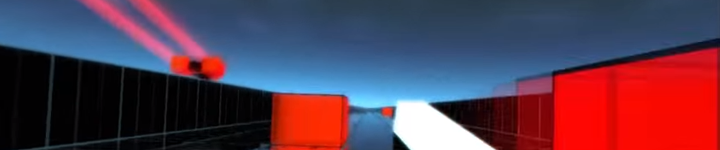
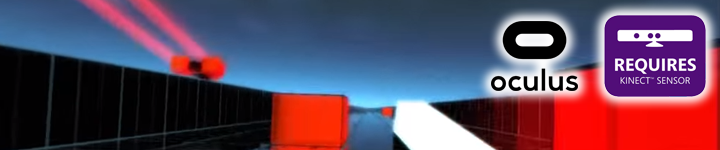
Inclusion of prototypes in games section. Add more info on A-10 page. Revamped game header images.

Changed region(s): [[0.6417, 0.0267, 1.0, 0.72]]

diff --git a/public/css/poole.css b/public/css/poole.css
@@ -285,6 +285,10 @@ tbody tr:nth-child(odd) th {
   background-color: #f9f9f9;
 }
 
+.portfolio-entry a {
+  font-weight: bold;
+}
+
 .portfolio-entry img {
   margin: 0.5rem 0 0 0;
 }

diff --git a/games/index.md b/games/index.md
@@ -3,9 +3,9 @@ layout: page
 title: Games
 ---
 
-## Futuretown.io Projects
+## Futuretown Projects
 
-> These are games that worked on for <a href="http://futuretown.io" target="_blank">Futuretown.io</a>, a game studio specialized in VR games.
+> These are games that worked on for <a href="http://futuretown.io" target="_blank">Futuretown</a>, a game studio specialized in VR games.
 
 <p class="portfolio-entry">
 <a href="{{ site.baseurl }}games/a-10">
@@ -29,6 +29,45 @@ Ascent (C# and Unity)
 <a href="{{ site.baseurl }}games/son-of-flynn">
 Son of Flynn (C# and Unity, Oculus DK2 and Kinect V2)
 <img src="{{ site.baseurl }}public/images/games/son-of-flynn/header.png">
+</a>
+</p>
+
+## Prototypes
+
+> These are small proof of concepts, made to try a specific mechanic or just for fun.
+
+<p class="portfolio-entry">
+<a href="{{ site.baseurl }}games/vr-pong">
+VR PONG (C# and Unity, HTC Vive integration)
+<img src="{{ site.baseurl }}public/images/games/vr-pong/header.png">
+</a>
+</p>
+
+<p class="portfolio-entry">
+<a href="{{ site.baseurl }}games/vr-rc">
+VR RC (C# and Unity, HTC Vive integration)
+<img src="{{ site.baseurl }}public/images/games/vr-rc/header.png">
+</a>
+</p>
+
+<p class="portfolio-entry">
+<a href="{{ site.baseurl }}games/vr-racket-bricks">
+VR Racket Bricks (C# and Unity, HTC Vive integration)
+<img src="{{ site.baseurl }}public/images/games/vr-racket-bricks/header.png">
+</a>
+</p>
+
+<p class="portfolio-entry">
+<a href="{{ site.baseurl }}games/flying-thing">
+Flying Thing (C# and Unity, HTC Vive integration)
+<img src="{{ site.baseurl }}public/images/games/flying-thing/header.png">
+</a>
+</p>
+
+<p class="portfolio-entry">
+<a href="{{ site.baseurl }}games/hover">
+Hover (C# and Unity, HTC Vive integration)
+<img src="{{ site.baseurl }}public/images/games/hover/header.png">
 </a>
 </p>
 

diff --git a/games/a-10/index.md b/games/a-10/index.md
@@ -1,7 +1,19 @@
 ---
 layout: page-with-date
-title: "Futuretown.io: A-10 VR"
+title: "Futuretown: A-10 VR"
 date: 2014 Dez
 ---
 
+A-10 VR is a fresh virtual reality take on a classic sci-fi gallery shooter. Hone your sharp shooting skills in 4 game modes against a stunning outer space landscape in this arcade shooter meant for all skill levels! Fit with both global and local leaderboards.
+
+I worked as the sole developer on this game.
+
+<a href="http://store.steampowered.com/app/436220/" target="_blank"><img src="{{ site.baseurl }}public/images/games/a-10/steam-bar.png"></a>
+
 <iframe width="560" height="315" src="https://www.youtube.com/embed/mUOpUkt7bwg" frameborder="0" allowfullscreen></iframe>
+
+## Favorite YouTube reviews:
+
+<iframe width="560" height="315" src="https://www.youtube.com/embed/9SR86vztaHY" frameborder="0" allowfullscreen></iframe>
+
+<iframe width="560" height="315" src="https://www.youtube.com/embed/oZlSVSn2WaY" frameborder="0" allowfullscreen></iframe>

diff --git a/games/flying-thing/index.md b/games/flying-thing/index.md
@@ -1,0 +1,18 @@
+---
+layout: page-with-date
+title: "Prototypes: Flying Thing"
+date: 2016 Apr
+---
+
+#### 1st Person View / Arcade Controls:
+
+<iframe width="560" height="315" src="https://www.youtube.com/embed/q1njXd5Fb3w" frameborder="0" allowfullscreen></iframe>
+#### 3rd Person View / Arcade Controls:
+
+<iframe width="560" height="315" src="https://www.youtube.com/embed/c5D_PLyZPmc" frameborder="0" allowfullscreen></iframe>
+#### 1st Person View / Unconstrained Controls:
+
+<iframe width="560" height="315" src="https://www.youtube.com/embed/CzUdLxaKdms" frameborder="0" allowfullscreen></iframe>
+#### 3rd Person Camera Behaviour (Editor View):
+
+<iframe width="560" height="315" src="https://www.youtube.com/embed/LolAe345fUA" frameborder="0" allowfullscreen></iframe>

diff --git a/games/vr-racket-bricks/index.md b/games/vr-racket-bricks/index.md
@@ -1,0 +1,12 @@
+---
+layout: page-with-date
+title: "Prototypes: VR Pong"
+date: 2016 Feb
+---
+
+#### Headset View:
+
+<iframe width="560" height="315" src="https://www.youtube.com/embed/RpO_3UObtXA" frameborder="0" allowfullscreen></iframe>
+#### Editor View:
+
+<iframe width="560" height="315" src="https://www.youtube.com/embed/Ff38X_ToDIM" frameborder="0" allowfullscreen></iframe>

diff --git a/games/vr-pong/index.md b/games/vr-pong/index.md
@@ -1,0 +1,7 @@
+---
+layout: page-with-date
+title: "Prototypes: VR Pong"
+date: 2016 Feb
+---
+
+<iframe width="560" height="315" src="https://www.youtube.com/embed/s0Ms0DG8xUY" frameborder="0" allowfullscreen></iframe>

diff --git a/games/hover/index.md b/games/hover/index.md
@@ -1,0 +1,7 @@
+---
+layout: page-with-date
+title: "Prototypes: Hover"
+date: 2016 Feb
+---
+
+<iframe width="560" height="315" src="https://www.youtube.com/embed/IlnABr0ATPc" frameborder="0" allowfullscreen></iframe>

diff --git a/games/vr-rc/index.md b/games/vr-rc/index.md
@@ -1,0 +1,7 @@
+---
+layout: page-with-date
+title: "Prototypes: VR RC"
+date: 2016 Apr
+---
+
+<iframe width="560" height="315" src="https://www.youtube.com/embed/AsRZlvEolZQ" frameborder="0" allowfullscreen></iframe>
